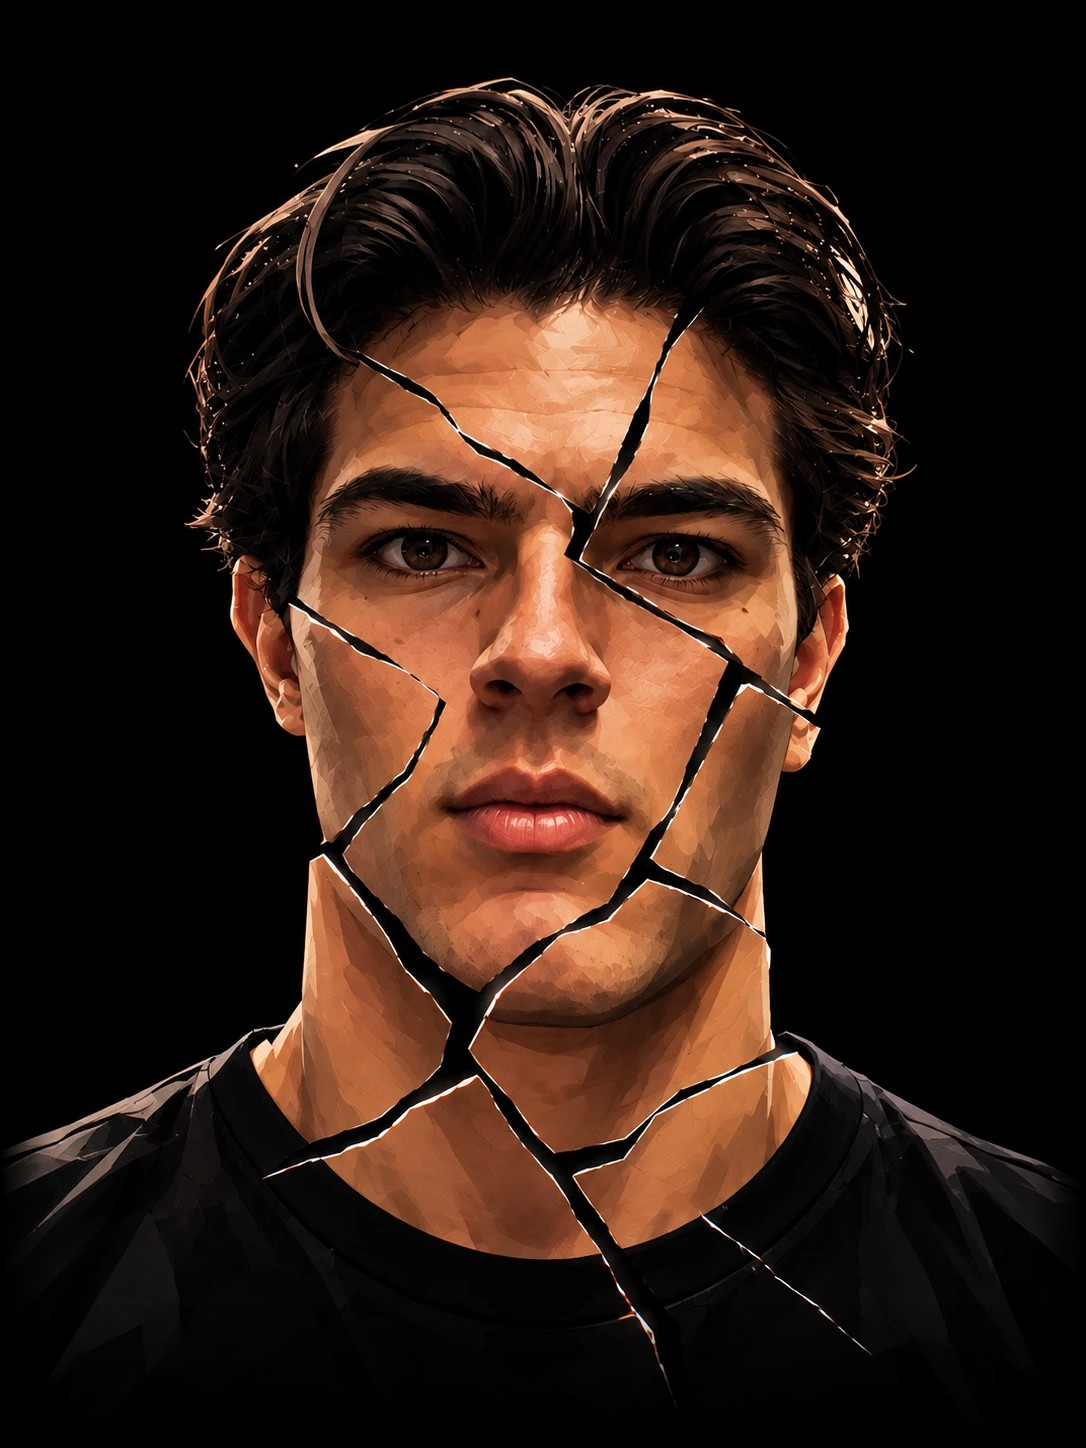
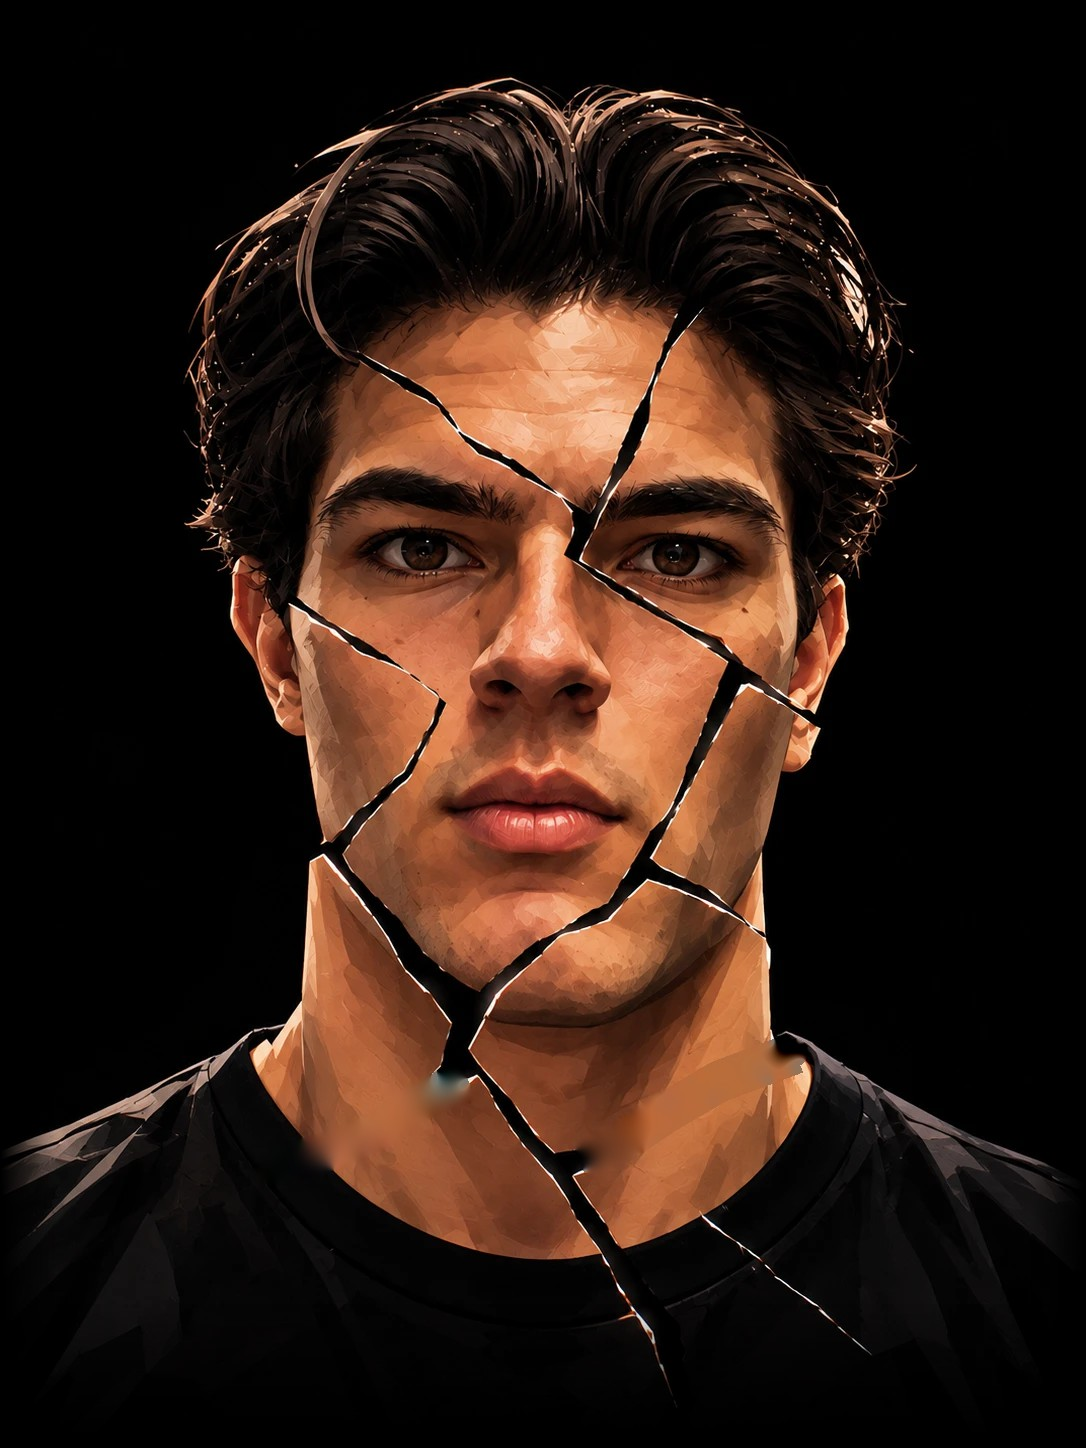
Six pieces: remove two cracks from portrait

Changed region(s): [[0.5166, 0.7148, 0.7597, 0.808], [0.2735, 0.7148, 0.4254, 0.808]]

diff --git a/src/components/shatter/shards.ts b/src/components/shatter/shards.ts
@@ -65,8 +65,8 @@ const J7 = P(558, 1163);  // collar
 
 // ---- Where cracks leave the picture (on its border) ---------
 const TOPb = P(800, 0);
-const Lb1 = P(0, 204), Lb2 = P(0, 436), Lb3 = P(0, 1252);
-const Rb1 = P(1086, 775), Rb2 = P(1086, 960), Rb3 = P(1086, 1000);
+const Lb1 = P(0, 204), Lb2 = P(0, 436);
+const Rb1 = P(1086, 775), Rb2 = P(1086, 960);
 const Bb = P(685, 1448);
 
 // ---- Corners ------------------------------------------------
@@ -83,9 +83,7 @@ const E3 = line([700, 880], [765, 935]);                                        
 const E_ = line([295, 600], [340, 625], [395, 655], [440, 690], [445, 705], [435, 730], [400, 780], [350, 830]); // left edge -> J5
 const F = line([350, 885], [385, 935], [420, 980]);                                             // J5 -> J4
 const G = line([462, 1040], [450, 1070]);                                                       // J4 -> J6
-const H = line([420, 1100], [380, 1130], [330, 1150], [265, 1170]);                             // J6 -> left edge
 const I = line([500, 1115], [530, 1150]);                                                       // J6 -> J7
-const Jj = line([610, 1148], [660, 1115], [720, 1080], [795, 1052]);                            // J7 -> right edge
 const K_ = line([575, 1195], [600, 1240], [625, 1285], [655, 1345], [675, 1405]);               // J7 -> bottom edge
 
 const rev = (p: Pt[]) => [...p].reverse();
@@ -103,11 +101,11 @@ interface ShardSpec {
   depth: number;
 }
 
-// Eight pieces, as many as the cracks in the picture make. Which piece opens which section:
+// Six pieces, one per section. Which piece opens which section:
 //   top left -> About            top right -> Music
-//   centre of face -> Cinema     right cheek -> Work
-//   left cheek and neck, and the lower left -> The Lab
-//   right jaw and neck, and the lower right -> Contact
+//   centre of the face -> Cinema right cheek -> Work
+//   left cheek, neck and lower left -> The Lab
+//   right jaw, neck and lower right -> Contact
 // To re-map a piece, change its `section` to any key from SECTIONS in lib/data.ts.
 const SPECS: ShardSpec[] = [
   { id: "p-about",    section: "about",   label: labelOf("about"),   rotate: -2.5, depth:  0.015,
@@ -119,13 +117,9 @@ const SPECS: ShardSpec[] = [
   { id: "p-work",     section: "work",    label: labelOf("work"),    rotate: -1.8, depth:  0.02,
     points: [J2, ...C2, Rb1, Rb2, ...rev(E3), J3, ...rev(D1)] },
   { id: "p-lab",      section: "lab",     label: labelOf("lab"),     rotate: -1.6, depth: -0.01,
-    points: [Lb2, ...E_, J5, ...F, J4, ...G, J6, ...H, Lb3] },
-  { id: "p-lab-low",  section: "lab",     label: labelOf("lab"),     rotate: -1.2, depth:  0.01,
-    points: [Lb3, ...rev(H), J6, ...I, J7, ...K_, Bb, C01] },
-  { id: "p-contact",  section: "contact", label: labelOf("contact"), rotate:  2.0, depth:  0.012,
-    points: [J3, ...E3, Rb2, Rb3, ...rev(Jj), J7, ...rev(I), J6, ...rev(G), J4, ...rev(D2)] },
-  { id: "p-contact-low", section: "contact", label: labelOf("contact"), rotate: 2.4, depth: -0.01,
-    points: [J7, ...Jj, Rb3, C11, Bb, ...rev(K_)] },
+    points: [Lb2, ...E_, J5, ...F, J4, ...G, J6, ...I, J7, ...K_, Bb, C01] },
+  { id: "p-contact",  section: "contact", label: labelOf("contact"), rotate:  2.2, depth:  0.012,
+    points: [J3, ...E3, Rb2, C11, Bb, ...rev(K_), J7, ...rev(I), J6, ...rev(G), J4, ...rev(D2)] },
 ];
 
 export interface Shard extends ShardSpec {
